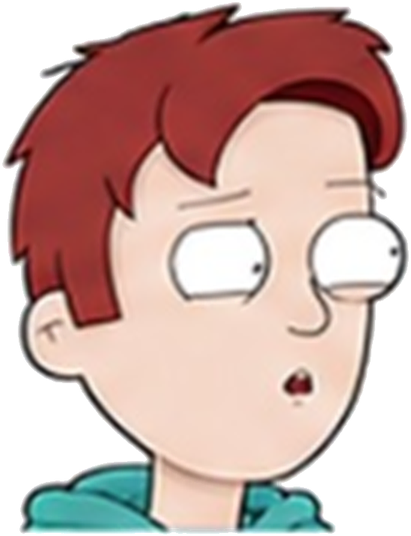
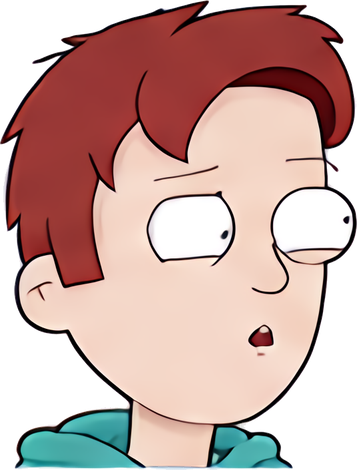
Leave It On Read: AI-upscaled character art
Re-cut Jamie's nine expressions and full-body pose from a 4x Real-CUGAN
upscale of the character sheet for crisp outlines on high-DPI phones.

Claude-Session: https://claude.ai/code/session_01WEbHahn7z3zJ24bniPajJT

Changed region(s): [[0.0, 0.0, 1.0, 1.0], [0.6779, 0.6851, 0.7703, 0.7745], [0.8936, 0.1787, 0.9244, 0.2085]]

diff --git a/games/leave-it-on-read/index.html b/games/leave-it-on-read/index.html
@@ -213,7 +213,7 @@
     <h1 class="title__game">Leave It On Read</h1>
     <div class="title__jamie">
       <div class="title__fig">
-        <img src="img/front.png" width="520" height="1503" alt="Jamie, standing with a flat, unimpressed look">
+        <img src="img/front.png" width="520" height="1519" alt="Jamie, standing with a flat, unimpressed look">
         <span class="title__phone" aria-hidden="true">u up? 👀</span>
       </div>
     </div>
@@ -238,7 +238,7 @@
 
     <div class="stage">
       <div class="jamie" id="jamie">
-        <img id="jamieFace" src="img/unimpressed.png" width="414" height="543" alt="Jamie looks unimpressed">
+        <img id="jamieFace" src="img/unimpressed.png" width="360" height="476" alt="Jamie looks unimpressed">
         <div class="bubble" id="bubble" aria-live="polite"></div>
       </div>
       <div class="deck" id="deck">
@@ -255,7 +255,7 @@
 
   <!-- Game over -->
   <section class="screen over" id="over" hidden>
-    <img class="over__face" src="img/angry.png" width="398" height="544" alt="Jamie, mid angry rant">
+    <img class="over__face" src="img/angry.png" width="346" height="479" alt="Jamie, mid angry rant">
     <h2 class="over__title">Absolutely scunnered.</h2>
     <p class="over__why" id="overWhy"></p>
     <div class="stats">
